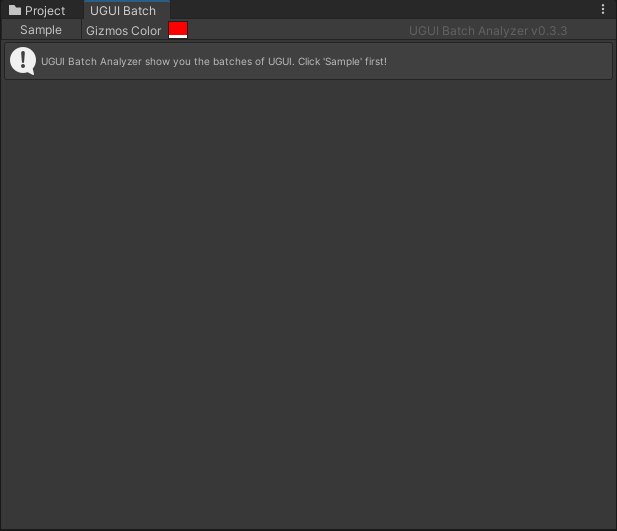
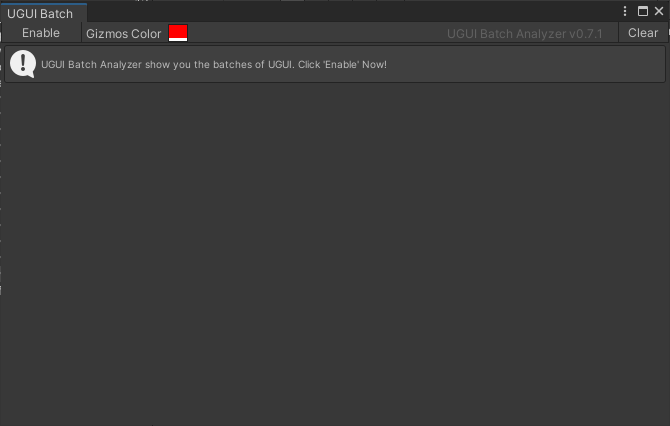
将sample按钮替换为enable/disable开关

Changed region(s): [[0.0, 0.0, 1.0, 1.0], [0.0, 0.9765, 0.0308, 1.0]]

diff --git a/Editor/GUI/MVC/UIBatchAnalyzerView.cs b/Editor/GUI/MVC/UIBatchAnalyzerView.cs
@@ -15,7 +15,7 @@ namespace SimpleX
         private Color gizmosColor = Color.red;
 
         private const string _name_ = "UGUI Batch Analyzer";
-        private const string _version_ = "v0.6.1";
+        private const string _version_ = "v0.7.2";
 
         public UIBatchAnalyzerView(UIBatchAnalyzerData data, UIBatchAnalyzerCtrl ctrl)
         {
@@ -34,6 +34,8 @@ namespace SimpleX
 
             SceneView.duringSceneGui += OnSceneGUIHandler;
             EditorApplication.playModeStateChanged += OnPlayModeStateChangedHandler;
+
+            selectedItem = null;
         }
         
         public void OnDisable()
@@ -43,6 +45,8 @@ namespace SimpleX
             
             SceneView.duringSceneGui -= OnSceneGUIHandler;
             EditorApplication.playModeStateChanged -= OnPlayModeStateChangedHandler;
+
+            selectedItem = null;
         }
 
         public void OnGUI()
@@ -53,7 +57,7 @@ namespace SimpleX
             {
                 if (data.state == EAnalysisState.Idle)
                 {
-                    EditorGUILayout.HelpBox("UGUI Batch Analyzer show you the batches of UGUI. Click 'Sample' Now!", MessageType.Info);
+                    EditorGUILayout.HelpBox("UGUI Batch Analyzer show you the batches of UGUI. Click 'Enable' Now!", MessageType.Info);
                 }
                 else if (data.state == EAnalysisState.Analyzing)
                 {
@@ -86,6 +90,8 @@ namespace SimpleX
         
         public void OnHierarchyChange()
         {
+            if (!data.enabled) return;
+            selectedItem = null;
             // OnHierarchyChange 消息可能会延迟几帧，
             // 为了能在Hierarchy变化时自动重新计算合批，暂时采用这种方式
             if (data.state == EAnalysisState.Analyzed)
@@ -100,14 +106,26 @@ namespace SimpleX
 
         private void OnToolbarGUI()
         {
-            var enabled = (data.state != EAnalysisState.Analyzing);
+            var analyzing = (data.state == EAnalysisState.Analyzing);
             
             EditorGUILayout.BeginHorizontal(EditorStyles.toolbar);
             {
-                GUI.enabled = enabled;
-                if (GUILayout.Button("Sample", EditorStyles.toolbarButton, GUILayout.Width(80)))
+                GUI.enabled = !analyzing;
+                if (data.enabled)
                 {
-                    OnAnalysis();
+                    if (GUILayout.Button("Disable", EditorStyles.toolbarButton, GUILayout.Width(80)))
+                    {
+                        data.enabled = false;
+                        OnClear();
+                    }
+                }
+                else
+                {
+                    if (GUILayout.Button("Enable", EditorStyles.toolbarButton, GUILayout.Width(80)))
+                    {
+                        data.enabled = true;
+                        OnAnalysis();
+                    }
                 }
                 GUI.enabled = true;
                 
@@ -122,7 +140,7 @@ namespace SimpleX
                 }
                 GUI.color = Color.white;
                 
-                GUI.enabled = enabled;
+                GUI.enabled = !analyzing;
                 if (GUILayout.Button("Clear", EditorStyles.toolbarButton, GUILayout.Width(50)))
                 {
                     OnClear();
@@ -336,6 +354,7 @@ namespace SimpleX
             if (state == PlayModeStateChange.ExitingEditMode ||
                 state == PlayModeStateChange.ExitingPlayMode)
             {
+                data.enabled = false;
                 OnClear();
             }
         }

diff --git a/Editor/GUI/MVC/UIBatchAnalyzerCtrl.cs b/Editor/GUI/MVC/UIBatchAnalyzerCtrl.cs
@@ -21,25 +21,32 @@ namespace SimpleX
         {
             analyzer = new KAnalyzer();
             analyzer.OnAnalyzed = OnBatchAnalyzedHandler;
-            
+
+            data.enabled = false;
             data.state = EAnalysisState.Idle;
         }
 
         public void OnDisable()
         {
+            data.enabled = false;
             analyzer.OnAnalyzed = null;
             analyzer.Dispose();
         }
         
         public void Analysis()
         {
-            data.state = EAnalysisState.Analyzing;
-            analyzer.Analysis();
+            if (data.enabled)
+            {
+                data.groups.Clear();
+                data.state = EAnalysisState.Analyzing;
+                analyzer.Analysis();
+            }
         }
         
         public void Tick()
         {
-            if (data.state == EAnalysisState.Analyzing)
+            if (data.enabled && 
+                data.state == EAnalysisState.Analyzing)
             {
                 analyzer?.Tick();
             }
@@ -59,16 +66,19 @@ namespace SimpleX
         
         private void OnBatchAnalyzedHandler(List<KBatch> batches)
         {
-            data.groups.Clear();
-            
-            foreach (var batch in batches)
+            if (data.enabled)
             {
-                var group = AllocGroup(batch.canvas);
-                group.AddBatch(batch);
-            }
+                data.groups.Clear();
 
-            data.state = EAnalysisState.Analyzed;
-            OnChanged?.Invoke();
+                foreach (var batch in batches)
+                {
+                    var group = AllocGroup(batch.canvas);
+                    group.AddBatch(batch);
+                }
+
+                data.state = EAnalysisState.Analyzed;
+                OnChanged?.Invoke();
+            }
         }
         
         private kCanvas AllocGroup(Canvas canvas)

diff --git a/Editor/GUI/MVC/UIBatchAnalyzerData.cs b/Editor/GUI/MVC/UIBatchAnalyzerData.cs
@@ -12,6 +12,7 @@ namespace SimpleX
     
     public class UIBatchAnalyzerData
     {
+        public bool enabled { get; set; } = false;
         public EAnalysisState state { get; set; } = EAnalysisState.Idle;
         public List<kCanvas> groups { get; private set; }
 

diff --git a/README.md b/README.md
@@ -15,13 +15,12 @@
 - [X] Mask
 - [X] RectMask2D
 - [ ] Sub Canvas
->注1：暂不支持多材质UI<br>
->注2：暂不支持Editor模式下的SpriteAtlas<br>
+>注1：暂不支持Editor模式下的SpriteAtlas<br>
 ## 使用指南
 1. 菜单 SimpleX -> UIBatch Profiler，打开UGUI Batch窗口<br>![ugui_batch_03.png](https://github.com/simplex86/UIBatchAnalyzer/blob/main/_Doc/Images/ugui_batch_03.png)
 2. 点击“Sample”按钮<br>![ugui_batch_04.png](https://github.com/simplex86/UIBatchAnalyzer/blob/main/_Doc/Images/ugui_batch_04.png)
 3. 左边列出每个Canvas下的所有Batch以及每个Batch的组成。选择各个节点后，可以在右边查看详细信息<br>![ugui_batch_05.png](https://github.com/simplex86/UIBatchAnalyzer/blob/main/_Doc/Images/ugui_batch_05.png)
->注：需要手动点击“Sample”按钮刷新
+>注：在Inspector中修改某些属性时，不会自动刷新Batch数据，请重新Enable后查看
 ## 测试环境
 #### Windows
 - [X] Unity 2020.3.44f1
